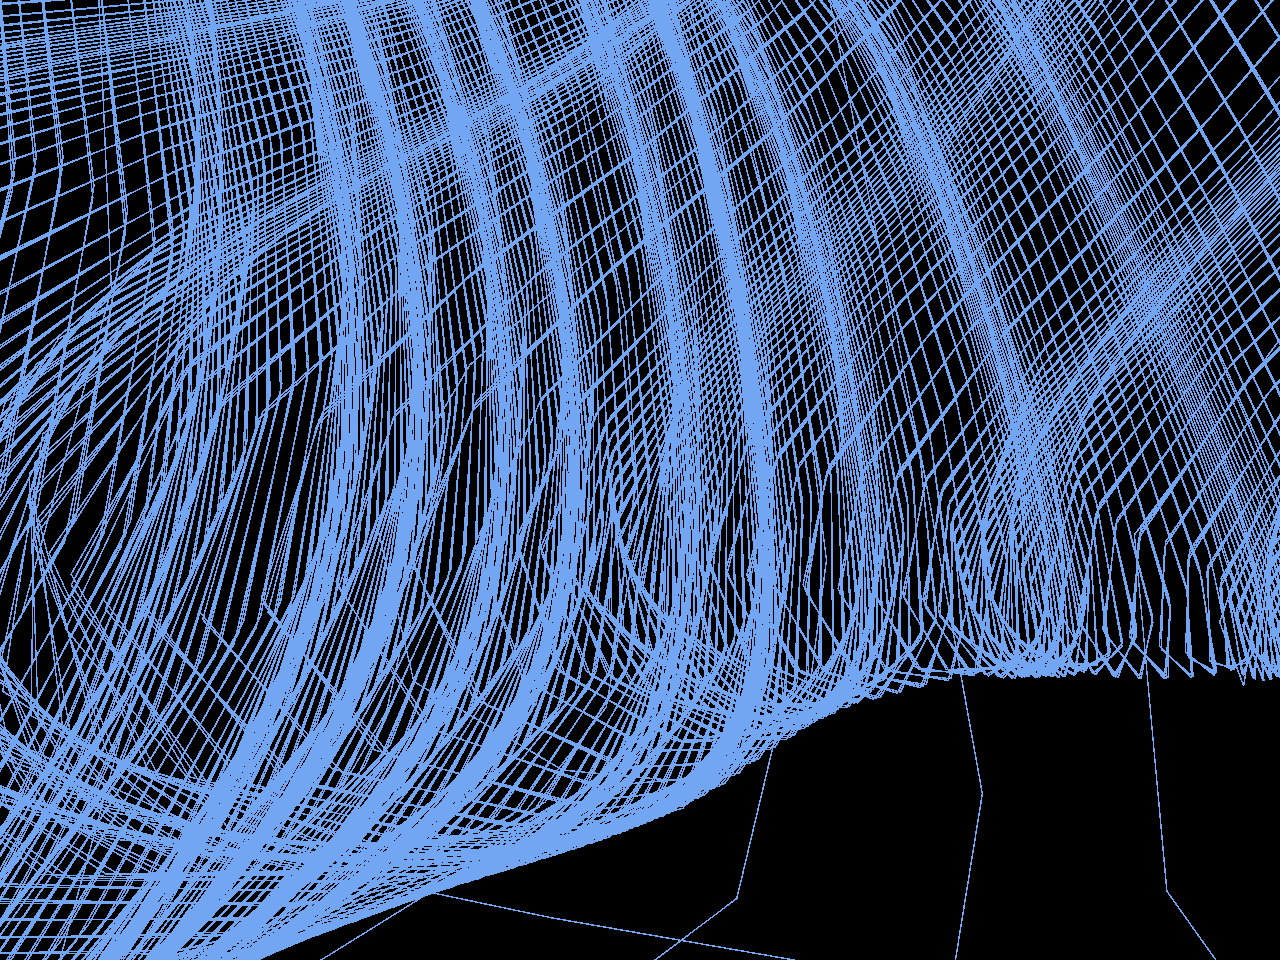
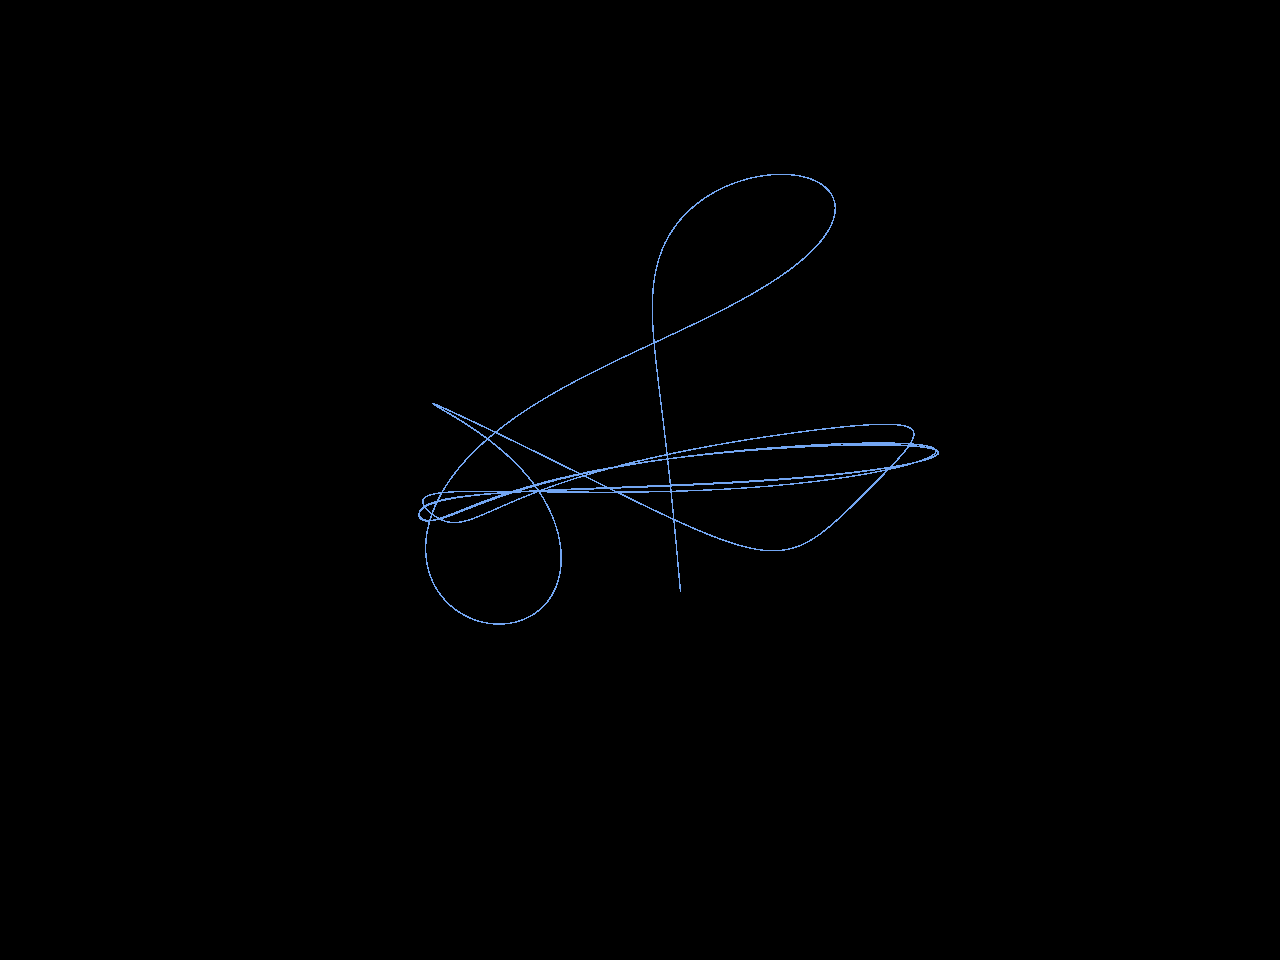
Fix Lorenz 86 framing and step size (less zoom, smoother).

diff --git a/packages/frontend/src/pages/attractors/lorenz_86.tsx b/packages/frontend/src/pages/attractors/lorenz_86.tsx
@@ -58,7 +58,7 @@ const Lorenz86Attractor = () => {
 	const dispatch = useAppDispatch()
 	const { data } = useAppSelector((state) => state.WebSlice)
 	const { calculateParticlesToDraw, updateProgressUI, checkCompletion } = useAnimationState({
-		baseSpeed: 320,
+		baseSpeed: 400,
 	})
 	const trailRef = useRef<TrailState>(seedTrail())
 
@@ -69,12 +69,13 @@ const Lorenz86Attractor = () => {
 				b: { initialValue: 4.494, min: 4, max: 5, step: 0.0001 },
 				f: { initialValue: 1.479, min: 0, max: 1.5, step: 0.0001 },
 				g: { initialValue: 0.44, min: 0, max: 2, step: 0.0001 },
-				d: { initialValue: 0.13, min: 0.1, max: 0.15, step: 0.00001 },
+				// Archive used 0.13 (chunky); smaller default for a readable line trail.
+				d: { initialValue: 0.015, min: 0.002, max: 0.15, step: 0.00001 },
 			},
 			examples: [
+				{ a: 1.111, b: 4.494, f: 1.479, g: 0.44, d: 0.015 },
 				{ a: 1.111, b: 4.494, f: 1.479, g: 0.44, d: 0.13 },
-				{ a: 0.95, b: 4.2, f: 1.2, g: 0.6, d: 0.12 },
-				{ a: 1.3, b: 4.8, f: 0.8, g: 0.3, d: 0.14 },
+				{ a: 0.95, b: 4.2, f: 1.2, g: 0.6, d: 0.02 },
 			],
 		}),
 		[],
@@ -136,7 +137,11 @@ const Lorenz86Attractor = () => {
 		}
 
 		let { x, y, z, computed } = trail
-		const scale = 50
+		// State ~O(1); scale + center so the cloud fills the frame (not a corner speck).
+		const scale = 22
+		const ox = -7.2
+		const oy = 21.1
+		const oz = 4.2
 
 		while (computed < particlesToDraw) {
 			const next = lorenz86Tick(x, y, z, a, b, f, g, d)
@@ -144,7 +149,10 @@ const Lorenz86Attractor = () => {
 			y = next.y
 			z = next.z
 			// Archive: starField.rotation.z = π/2 → map (x,y,z) → (-y, x, z)
-			positions.set([-y * scale, x * scale, z * scale], computed * EDimensions.THREE_D)
+			positions.set(
+				[-y * scale - ox, x * scale - oy, z * scale - oz],
+				computed * EDimensions.THREE_D,
+			)
 			computed += 1
 		}
 
@@ -166,13 +174,13 @@ const Lorenz86Attractor = () => {
 	return (
 		<Base<TData>
 			dimension={EDimensions.THREE_D}
-			numParticles={resolveParticleCount(20_000)}
+			numParticles={resolveParticleCount(40_000)}
 			tick={tick}
 			drawMode="line"
 			lineOpacity={isScreenshotMode() ? 1 : 0.55}
 			autoRotate={!isScreenshotMode()}
 			autoRotateSpeed={0.25}
-			cameraPosition={[0, 0, 55]}
+			cameraPosition={[0, 0, 105]}
 		/>
 	)
 }
@@ -193,8 +201,9 @@ Lorenz86Attractor.getDescription = () => (
 		<BlockMath math={'\\dot{y} = -y + x y - f x z + g'} />
 		<BlockMath math={'\\dot{z} = -z + f x y + x z'} />
 		<br />
-		Archive defaults: <InlineMath math="a=1.111,\ b=4.494,\ f=1.479,\ g=0.44" />,{' '}
-		<InlineMath math="d=0.13" />, seed <InlineMath math="(0,0,0)" />. Cool→warm GPU line trail;
+		Archive coeffs: <InlineMath math="a=1.111,\ b=4.494,\ f=1.479,\ g=0.44" />, seed{' '}
+		<InlineMath math="(0,0,0)" />. Default Euler step <InlineMath math="d=0.015" /> (smooth trail);
+		preset <code>d=0.13</code> matches the archive’s chunkier step. Cool→warm GPU line trail;
 		transport <code>n</code> scrubs length. Classic Lorenz stays at{' '}
 		<code>/lorenz_attractor</code>.
 	</>
